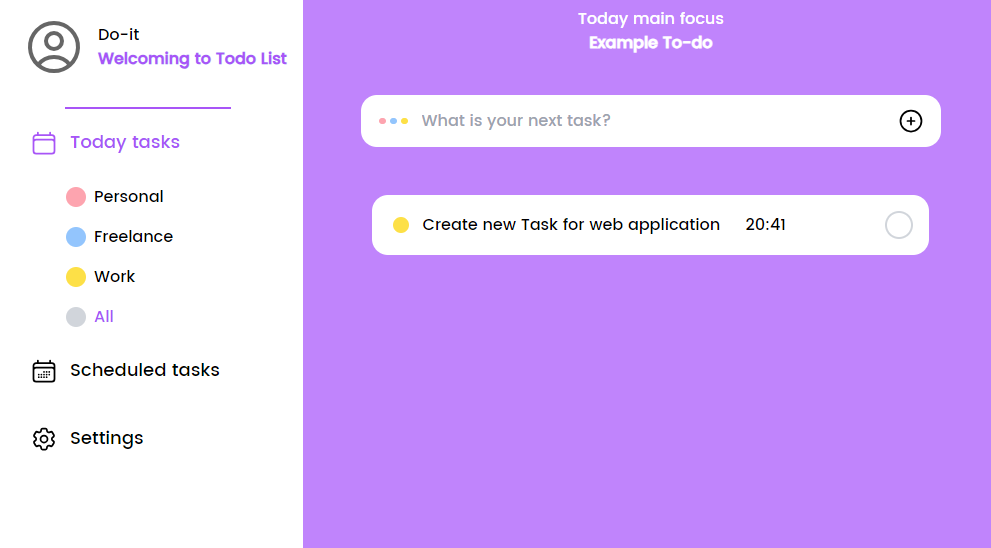
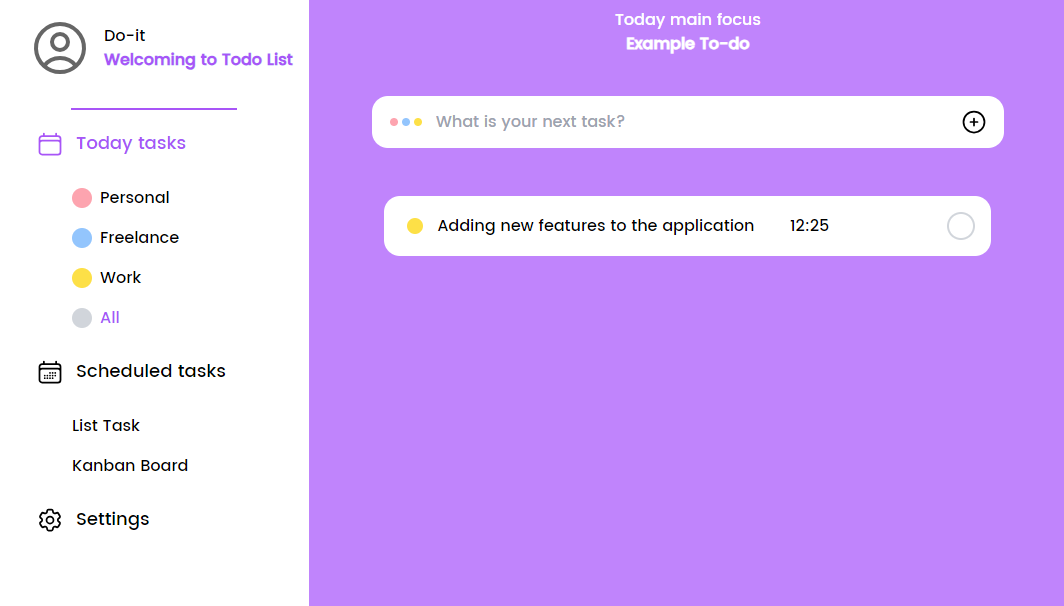
Update README.md

diff --git a/README.md b/README.md
@@ -44,6 +44,12 @@ This project focuses on building a Todo-list application using ReactJS and NodeJ
 - I have deployed the project to cloud service [Render.com](Render.com). The link of the web application is placed on top of the README.md. High recommended you to visit the webiste to see the result of the application.
 - Issue: The application still doesn't have best performance because the delay of the server both [Render.com](Render.com) and [MongoDB Atlas](https://www.mongodb.com/products/platform/atlas-database). So it will take more time to start and work correctly.
 
+**Update of version 3**:
+- In this version, the Scheduled Screen has two options to view all tasks.
+  - The first option is ```List task```: This is the default view, which lists all tasks to screen from top to bottom.
+  - The second option is ```Kanban board```: This is a new feature that helps users manage their tasks easily. Users can change the status of task between ```To-do```, ```Doing```, and ```Done```.
+- I fixed the issue from version 2 related to the backend. Now you can clone and run it without any edit file except the API key ```.env```
+
 ### Built With
 <div id="build-with"></div>
 
